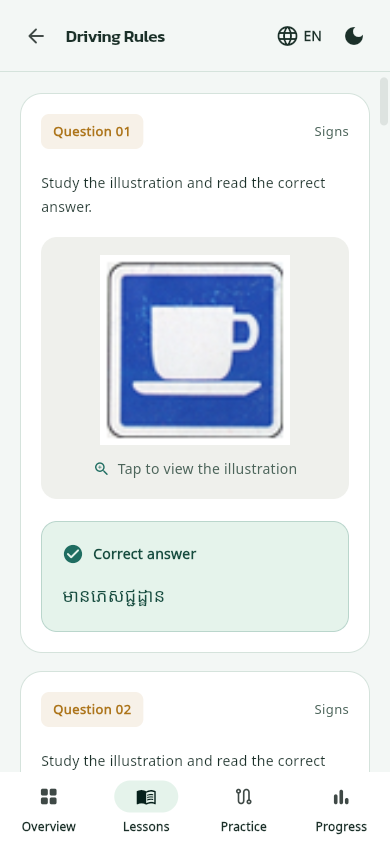
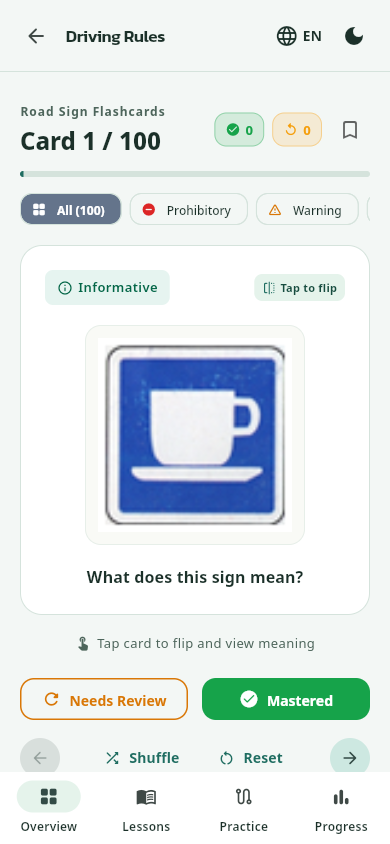
docs: refresh README screenshots from the current build
Regenerated the five images the README shows (same sizes and file names)
so they match the current UI: compact cards, translated chips, the new
result verdict and the flashcards screen. Mention the Khmer readability
adjustments in the features table.

Claude-Session: https://claude.ai/code/session_017gfMh7nQRQCz5eQTnyah2S

diff --git a/README.md b/README.md
@@ -23,7 +23,7 @@
 <p align="center">
   <img src="design-preview/mobile.png" alt="Home (mobile)" width="23%" />
   <img src="design-preview/exam-mobile.png" alt="Exam in Khmer (mobile)" width="23%" />
-  <img src="design-preview/learning-signs-390.png" alt="Road signs (mobile)" width="23%" />
+  <img src="design-preview/learning-signs-390.png" alt="Road-sign flashcards (mobile)" width="23%" />
   <img src="design-preview/results-mobile.png" alt="Results (mobile)" width="23%" />
 </p>
 
@@ -45,7 +45,7 @@
 | 🧠 | **Mistakes bank** | Every wrong answer is collected; answer it correctly to clear it. Bookmarks for questions you want to revisit. |
 | 📊 | **Progress & readiness** | Readiness score (0–100%) from your last 5 exams, per-category mastery, attempt history. |
 | 🔍 | **Answer review** | Go through each exam question with your answer and the correct one. |
-| 🌐 | **English / Khmer** | Full translation with bundled Kanit + Noto Sans Khmer fonts; a test enforces key parity between languages. |
+| 🌐 | **English / Khmer** | Full translation with bundled Kanit + Noto Sans Khmer fonts; a test enforces key parity between languages. In Khmer, small text is enlarged and letter-spacing is relaxed so stacked vowels and subscripts stay readable. |
 | 🌗 | **Light / dark theme** | Persisted preference. |
 | 📱 | **Responsive** | Bottom navigation on phones, sidebar dashboard on desktop; tested from 320 px to 1920 px wide. |
 | ⌨ | **Keyboard support** | Answer and navigate exams from the keyboard on desktop/web. |
